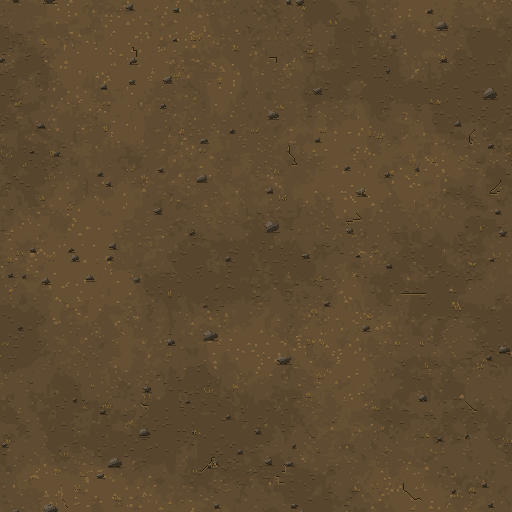
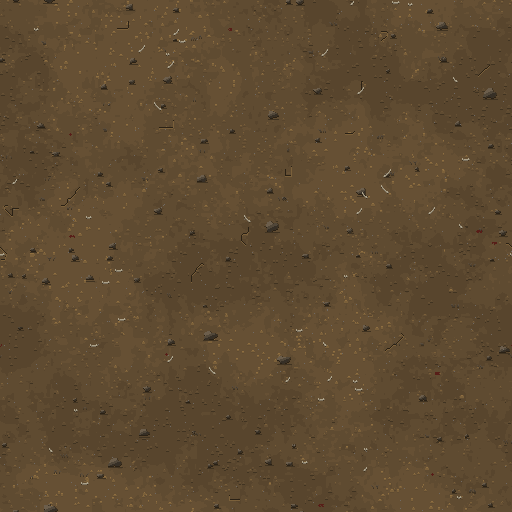
O dat Hoang Tuyen ban 3 theo boi canh am phu: xuong vun, tro, mau kho, co chet; luat 11 giu phong cach + boi canh
Claude-Session: https://claude.ai/code/session_01P7zL9VnxynQDPNjSYuUZu4

diff --git a/cong_cu/claude/o_dat.py b/cong_cu/claude/o_dat.py
@@ -15,8 +15,9 @@ def tone(f, warm=0.0):
     return np.clip(c, 0, 255)
 # bảng: 0 viền tối, 1 bóng sâu, 2 đất tối, 3 đất, 4 đất sáng, 5 cục sáng, 6 đỉnh sáng, 7 cỏ khô tối, 8 cỏ khô sáng, 9 đá tối, 10 đá, 11 đá sáng
 P = np.array([tone(.42), tone(.64), tone(.87), tone(.94), tone(1.01), tone(1.16, 6), tone(1.32, 10),
-              tone(.98, 6) * [1, 1, .9], tone(1.2, 10) * [1, 1, .85],
-              tone(.6) * .55 + np.array([1,1,1]) * base.mean() * .6 * .45, tone(.9) * .55 + np.array([1,1,1]) * base.mean() * .9 * .45, tone(1.2) * .55 + np.array([1,1,1]) * base.mean() * 1.2 * .45])
+              tone(.78) * .6 + base.mean() * .78 * .4, tone(.98) * .6 + base.mean() * .98 * .4,
+              tone(.6) * .55 + np.array([1,1,1]) * base.mean() * .6 * .45, tone(.9) * .55 + np.array([1,1,1]) * base.mean() * .9 * .45, tone(1.2) * .55 + np.array([1,1,1]) * base.mean() * 1.2 * .45,
+              np.array([172, 162, 138]), np.array([124, 114, 96]), np.array([88, 30, 24]), np.array([112, 106, 100])])  # 12 xương sáng, 13 xương tối, 14 máu khô, 15 tro
 def pnoise(cells):
     g = rng.random((cells, cells)); x = np.arange(N) * cells / N
     i0 = np.floor(x).astype(int); f = x - i0; f = f * f * (3 - 2 * f); i1 = (i0 + 1) % cells
@@ -55,14 +56,30 @@ for _ in range(95):
     for dx in range(-int(r), int(r) + 3): 
         if (int(ry) + 2, dx) not in S and get(cy + int(ry) + 2, cx + dx) < 9: put(cy + int(ry) + 2, cx + dx, 1)
 # cỏ khô: cụm 2-5 lá chữ V, chỗ đất ẩm (moist cao)
-for _ in range(130):
+for _ in range(60):
     cy, cx = rng.integers(0, N, 2)
     if moist[cy, cx] < .45 and rng.random() < .7: continue
     for _ in range(int(rng.integers(2, 6))):
-        x = cx + int(rng.integers(-3, 4)); L = int(rng.integers(2, 6)); lean = rng.choice([-1, 0, 0, 1])
+        x = cx + int(rng.integers(-3, 4)); L = int(rng.integers(2, 4)); lean = rng.choice([-2, -1, 1, 2])
         for t in range(L):
-            put(cy - t, x + (lean * t) // 2, 8 if t >= L - 2 else 7)
+            put(cy - t, x + (lean * t) // 2, 7 if t < L - 1 else 8)
         put(cy + 1, x, 1)
+# xương vụn: đoạn ngắn 3-7 px sáng, mép dưới tối, đôi khi đầu khớp
+for _ in range(int(sys.argv[5]) if len(sys.argv) > 5 else 45):
+    cy, cx = rng.integers(0, N, 2); L = int(rng.integers(3, 8)); d = rng.choice([(0, 1), (1, 1), (1, -1), (0, 1)])
+    for t in range(L):
+        y, x = cy + d[0] * t, cx + d[1] * t
+        put(y, x, 12); put(y + 1, x, 13 if t not in (0, L - 1) else 1)
+    for e in (0, L - 1):
+        y, x = cy + d[0] * e, cx + d[1] * e; put(y - 1, x, 12); put(y, x + 1 if d[1] >= 0 else x - 1, 13)
+# đốm tro xám và vết máu khô
+for _ in range(500):
+    y, x = rng.integers(0, N, 2); put(y, x, 15)
+for _ in range(10):
+    cy, cx = rng.integers(0, N, 2); r = rng.uniform(1.5, 3.5)
+    for dy in range(-3, 4):
+        for dx in range(-4, 5):
+            if (dx / r) ** 2 + (dy / (r * .6)) ** 2 <= 1 and rng.random() < .8 and get(cy + dy, cx + dx) < 7: put(cy + dy, cx + dx, 14)
 # nứt ngắn gấp khúc
 for _ in range(14):
     y, x = rng.integers(0, N, 2); ang = rng.random() * 6.28

diff --git a/CLAUDE.md b/CLAUDE.md
@@ -26,6 +26,7 @@ Tình trạng hệ thống: `TONG_HOP_TINH_NANG.md`. Tài liệu bàn giao Tây 
 
 10. **TỰ SOI UI/UX TRƯỚC KHI BÁO (chủ game bực nhiều lần, 26/11):** sửa giao diện xong phải tự chụp và soi TOÀN MÀN ở 550×278, 811×260 (Safari có thanh công cụ), 667×375, 852×393, 932×430, 956×440, 1100×620, 1280×720: hở viền/nền, tràn, đè nhau, chữ cắt, khoảng trống bất thường, đường nối giữa các lớp ảnh. Sửa hết rồi mới báo, KHÔNG đợi chủ game chỉ từng chỗ.
 9. **CHỈ HỖ TRỢ MÀN HÌNH NGANG (chủ game nhắc nhiều lần, chốt 26/11):** điện thoại cầm dọc thì hiện màn "Chỉ hỗ trợ màn hình ngang", KHÔNG tự xoay giao diện, KHÔNG sửa bố cục cho màn dọc. Đừng làm lại cơ chế tự xoay (commit `aa7b2e5` 22/11 từng thêm, đã bỏ ở `0fa000e`).
+11. **MỌI THỨ SỬA PHẢI GIỮ PHONG CÁCH GAME VÀ BỐI CẢNH ÂM GIỚI (chủ game nhắc 27/11):** game là âm phủ, 18 tầng địa ngục: tông u tối, màu dịu, pixel art viền tối như master. Không đưa chi tiết đời thường/tươi sáng (cỏ xanh, cỏ khô vàng kiểu đồng quê, hoa tươi...). Chi tiết nên là: đất chết, tro, xương vụn, máu khô, xiềng, bùa, lửa ma, hoa bỉ ngạn (đúng nơi).
 8. **CỠ QUÁI (chủ game 25/11, bắt buộc):** quái thường và Tinh Anh PHẢI NHỎ HƠN nhân vật chính (main cao ~104 px thế giới). Mini-boss, trùm, thủ lĩnh sự kiện thì to hơn. Trước khi đưa quái mới vào game: chạy `python3 cong_cu/claude/size_check.py` (mã thoát 1 nếu có quái thường/Tinh Anh >= main). Khi nhờ ChatGPT/PixelLab vẽ quái thường, đặt cao ≤ 100 px, đừng "ngang quái cũ" mà không so với main.
 
 ## Hiện trạng game (23/11)
@@ -878,3 +879,4 @@ Quyết định (chủ game không chọn riêng nên lấy đề xuất): hình
 - (27/11) **Bấm cổng Quỷ Môn Quan ở sảnh: BỎ khói + bóng ma, chỉ mở cửa** (chủ game: FPS tụt dưới 10 khi bấm, khoảng 5 s sau mới lên lại 40-50). `door()` không gọi `lbDoorFx()` nữa (hàm còn trong code, đã đổi sang vẽ sprite, không dùng). Canvas `#lbFx` giới hạn 900 px. Menu Tạm dừng bỏ `backdrop-filter:blur` (làm mờ đè lên canvas đang vẽ, rất nặng; nền tối 72% vẫn giữ). Số đo chủ game gửi (Chrome máy tính, 1280×592, DPR 1,1, đang Tạm dừng ở Hoàng Tuyền): 20,7 FPS, JS game 1,5 ms, phần trình duyệt vẽ 46,7 ms ⇒ nặng nằm ở phía trình duyệt/GPU, không phải code game; đang chờ số đo khi KHÔNG mở menu.
 - (27/11) **MẶT ĐẤT 1:1 CHO MAP ÂM GIỚI (chủ game: "cái ko nét là nền đất dưới chân nhân vật"; ChatGPT hết lượt nên tự làm bằng code, 0 PixelLab).** Ô đất lặp 512×512 pixel thật dựng bằng `python3 cong_cu/claude/o_dat.py <map> <x0,y0,x1,y1 vùng sân trong bg 1600x1140> game/assets/map/Dt_<map>.png [seed]` (bảng màu lấy từ sân đất của chính `bg_<map>.png`, nhiễu tuần hoàn + sỏi sáng-tối + vết nứt, ghép lặp liền mạch). Trong game: `M.tile` + `M.field=[x0,y0,x1,y1,mép]` (tọa độ thế giới 3200×2280), `drawTileField` (gọi trong `drawGroundMap` sau ảnh nền) tô pattern lên sân, 4 dải mép + 4 góc mờ dần dựng sẵn một lần (`tileFieldCache`), nên kiến trúc ở rìa ảnh nền giữ nguyên. Đá, bia, hoa vốn đã nét (vật riêng), chỉ đất là phóng ×2. **Mới làm Hoàng Tuyền** (`tile:'Dt_hoangtuyen',field:[60,700,3140,2280,190]`, ảnh 32 KB), chờ chủ game duyệt rồi làm 6 map còn lại. Ảnh: `nguon/tham_chieu/mat_dat_1to1_hoangtuyen_27-11.png`. Prompt ChatGPT `nguon/master_amgioi/map_1to1/` (4 góc / ô đất) giữ để dùng nếu muốn ảnh vẽ tay.
 - (27/11) **Ô đất bản 2 (chủ game: "ổn nhưng đất hơi xấu"):** `o_dat.py` viết lại: mảng nền 3 tông sát nhau, mép lởm chởm (thêm nhiễu tần số cao) thay mảng loang rằn ri; ~2300 cục đất nhỏ có viền sáng trên/tối dưới; ~95 hòn đá nhiều cỡ hình bất quy tắc, 3 tông xám ngả màu đất + viền tối dưới-phải; cụm cỏ khô nhạt mọc chỗ đất ẩm; vài vết nứt ngắn gấp khúc. 12 màu. Ảnh `nguon/tham_chieu/mat_dat_1to1_hoangtuyen_v2_27-11.png`.
+- (27/11) **Ô đất bản 3 theo bối cảnh âm phủ (chủ game nhắc luật 11):** bỏ cỏ khô vàng (trông như ruộng), thay cỏ chết xám tro ít và rủ; thêm xương vụn (45, màu xương đục), đốm tro xám, vết máu khô nhỏ. 16 màu. Ảnh `nguon/tham_chieu/mat_dat_1to1_hoangtuyen_v3_27-11.png`. Đề xuất chi tiết đất 6 map còn lại (chờ duyệt): Quỷ Môn Quan đất đá nện + xích gãy; Bỉ Ngạn đất đỏ tím + cánh hoa bỉ ngạn rụng; Nghiệt Kính đá lạnh xanh xám + mảnh gương vỡ; Uổng Tử đất cháy đen + than hồng, tro; Vong Xuyên bùn xanh đen ẩm + vũng nước; Diêm La đá lát đen nứt + vết máu.
